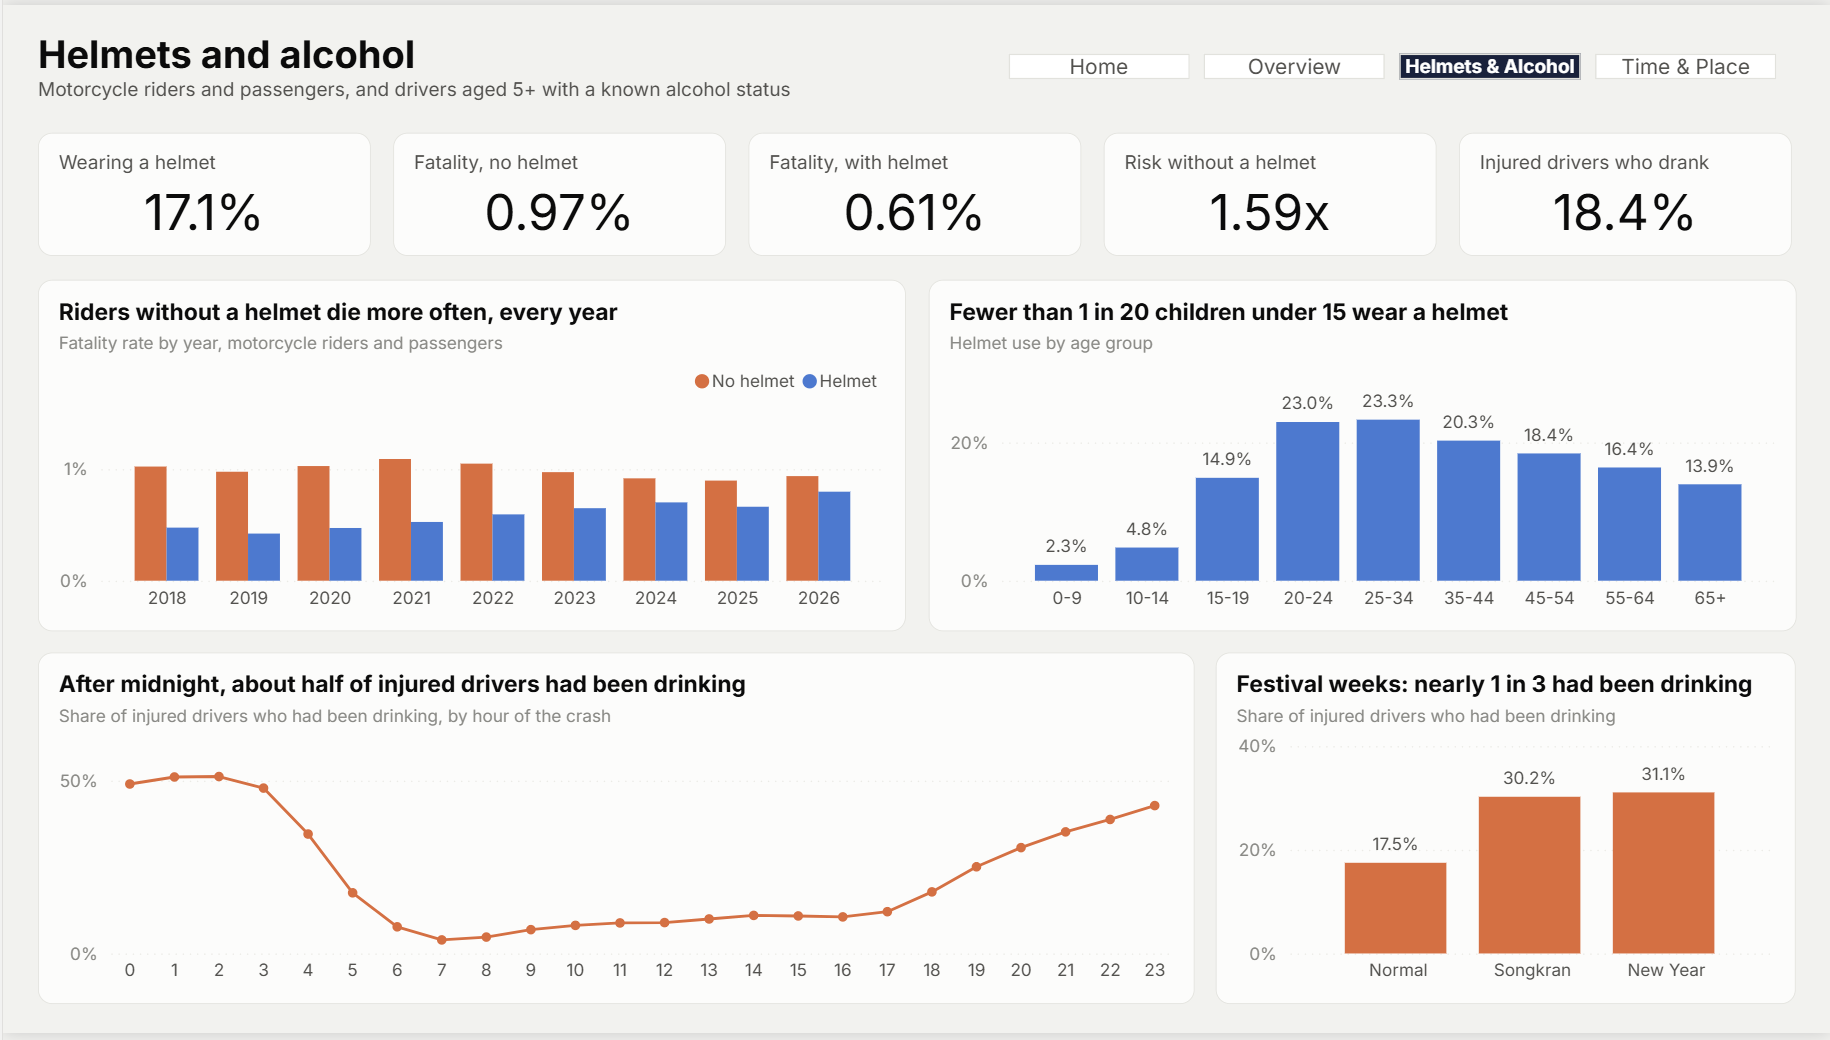
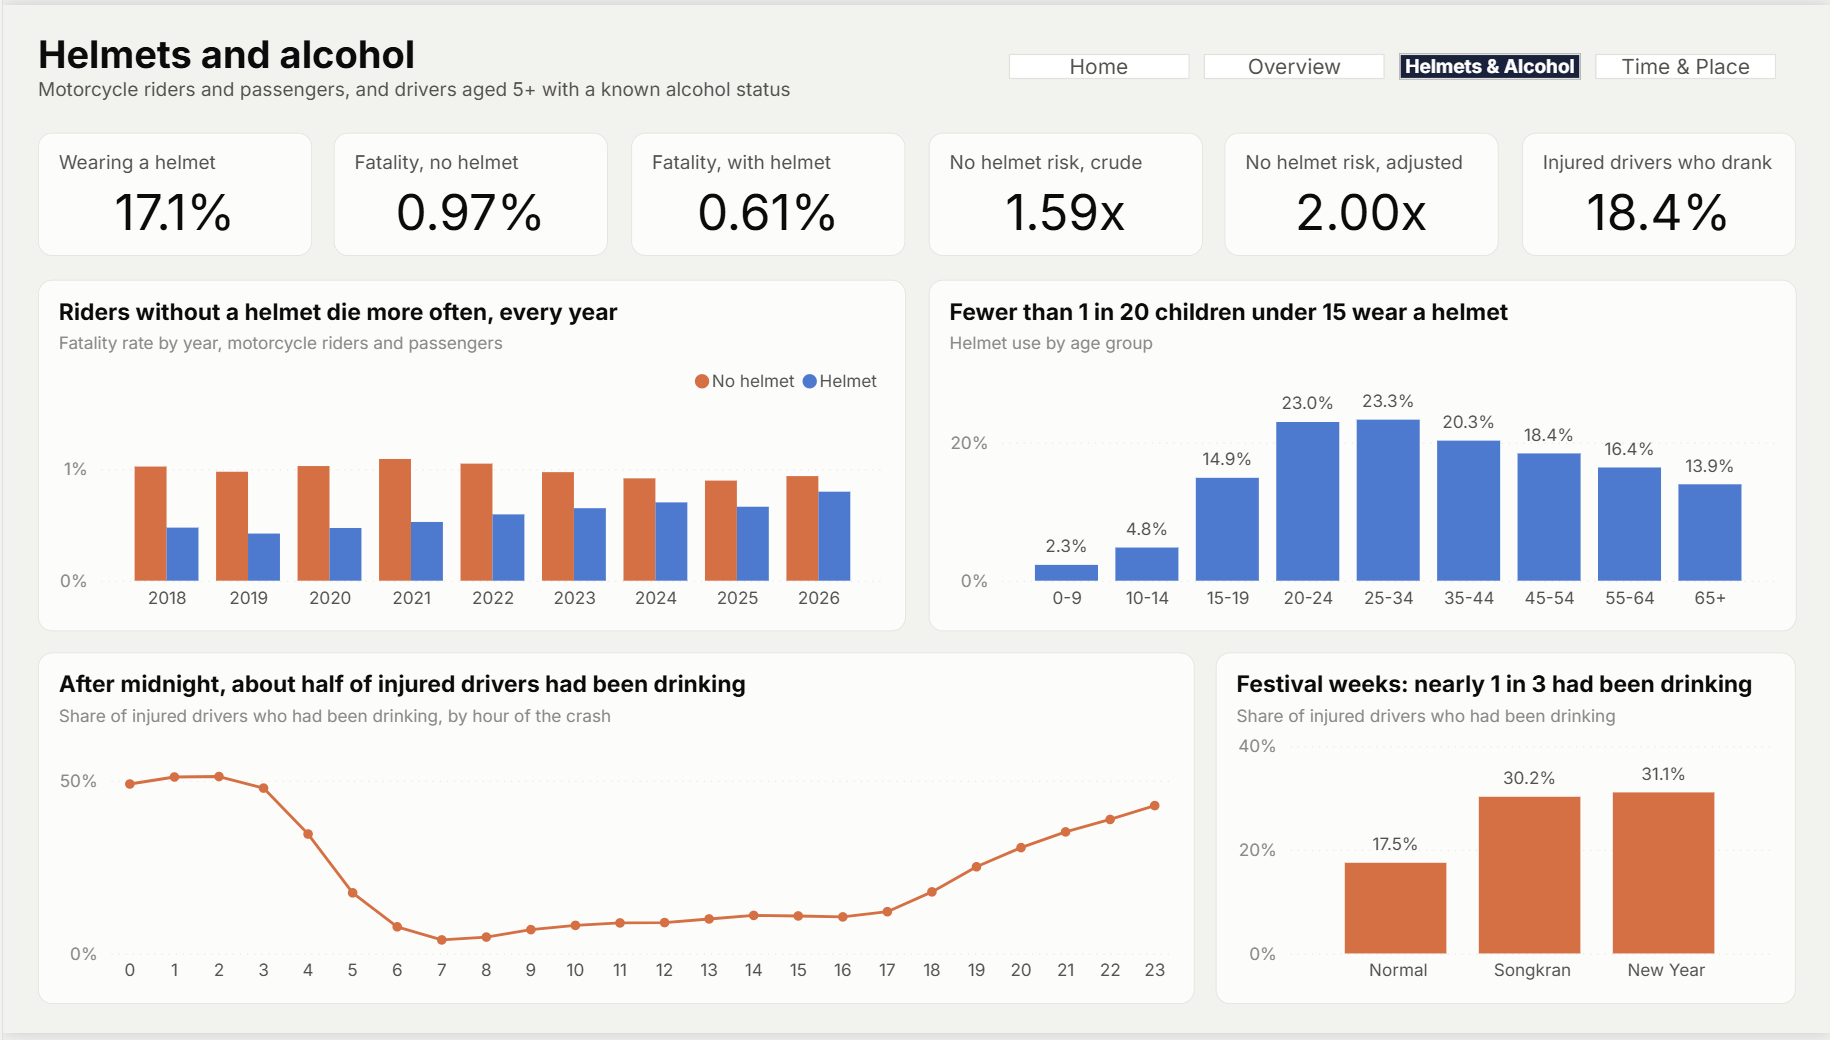
Show both helmet risk ratios on the dashboard images

Changed region(s): [[0.3738, 0.1538, 0.9656, 0.2462], [0.1869, 0.1538, 0.3426, 0.2462], [0.0623, 0.1846, 0.1557, 0.2462]]

diff --git a/index.html b/index.html
@@ -401,7 +401,7 @@ footer p { margin: 0 0 6px; }
         <li><div><b>ทำความสะอาดด้วย Python</b><span>ตัดแถวซ้ำ 7,504 แถว แปลงวันที่ที่มีถึง 3 รูปแบบ และแปลงรหัสเป็นหมวดหมู่</span></div></li>
         <li><div><b>ทำตามข้อควรระวังของกรมควบคุมโรค</b><span>ตัดผู้ป่วยที่รับส่งต่อจากโรงพยาบาลอื่น 468,283 แถว เหลือ 3,512,489 ราย การดื่มสุราไม่นับผู้ขับขี่อายุต่ำกว่า 5 ปี</span></div></li>
         <li><div><b>วิเคราะห์และปรับปัจจัยกวน</b><span>อัตราส่วนความเสี่ยงแบบ Mantel-Haenszel แยกตามอายุ เพศ การดื่ม ประเภทผู้ใช้ถนน และปี</span></div></li>
-        <li><div><b>แดชบอร์ด Power BI 4 หน้า</b><span>โมเดลแบบ star schema 6 ตาราง (fact 1 มิติ 5) และ 22 measures เขียนด้วย DAX ตรวจแล้วตรงกับผลจาก Python</span></div></li>
+        <li><div><b>แดชบอร์ด Power BI 4 หน้า</b><span>โมเดลแบบ star schema 6 ตาราง (fact 1 มิติ 5) และ 23 measures เขียนด้วย DAX ตรวจแล้วตรงกับผลจาก Python</span></div></li>
       </ol>
     </div>
     <div>
@@ -447,11 +447,11 @@ footer p { margin: 0 0 6px; }
       <p>ทุกไฟล์อยู่ใน Google Drive ของกลุ่ม เปิดดูได้ด้วยลิงก์ ข้อมูลทั้งหมดเป็นข้อมูลจริง ไม่มีข้อมูลสมมติ</p>
     </div>
     <div class="files" data-reveal>
-      <a class="file" href="https://drive.google.com/file/d/19oHNGAH2H6EDiT2emwXn_mHFeIlf0C1m/view" target="_blank" rel="noopener"><svg class="ficon" viewBox="0 0 44 52" aria-hidden="true"><path d="M7 2h21l13 13v31a4 4 0 0 1-4 4H7a4 4 0 0 1-4-4V6a4 4 0 0 1 4-4z" fill="#D62828"/><path d="M28 2l13 13h-9a4 4 0 0 1-4-4z" fill="#fff" fill-opacity=".38"/><path d="M10 22h16M10 27.5h21" stroke="#fff" stroke-opacity=".5" stroke-width="2" stroke-linecap="round"/><text x="22" y="42.5" text-anchor="middle" letter-spacing=".3" style="fill:#fff;font-family:Prompt,sans-serif;font-weight:700;font-size:9px">PDF</text></svg><div><b>รายงานฉบับสมบูรณ์</b><span>รายงานภาษาไทย 21 หน้า · 933 KB</span></div></a>
+      <a class="file" href="https://drive.google.com/file/d/19oHNGAH2H6EDiT2emwXn_mHFeIlf0C1m/view" target="_blank" rel="noopener"><svg class="ficon" viewBox="0 0 44 52" aria-hidden="true"><path d="M7 2h21l13 13v31a4 4 0 0 1-4 4H7a4 4 0 0 1-4-4V6a4 4 0 0 1 4-4z" fill="#D62828"/><path d="M28 2l13 13h-9a4 4 0 0 1-4-4z" fill="#fff" fill-opacity=".38"/><path d="M10 22h16M10 27.5h21" stroke="#fff" stroke-opacity=".5" stroke-width="2" stroke-linecap="round"/><text x="22" y="42.5" text-anchor="middle" letter-spacing=".3" style="fill:#fff;font-family:Prompt,sans-serif;font-weight:700;font-size:9px">PDF</text></svg><div><b>รายงานฉบับสมบูรณ์</b><span>รายงานภาษาไทย 21 หน้า · 937 KB</span></div></a>
       <a class="file" href="https://drive.google.com/file/d/1gc6JMN0GC8T3g28ZxQszPJjiUYmCwvzQ/view" target="_blank" rel="noopener"><svg class="ficon" viewBox="0 0 44 52" aria-hidden="true"><path d="M7 2h21l13 13v31a4 4 0 0 1-4 4H7a4 4 0 0 1-4-4V6a4 4 0 0 1 4-4z" fill="#2563EB"/><path d="M28 2l13 13h-9a4 4 0 0 1-4-4z" fill="#fff" fill-opacity=".38"/><path d="M10 22h16M10 27.5h21" stroke="#fff" stroke-opacity=".5" stroke-width="2" stroke-linecap="round"/><text x="22" y="42.5" text-anchor="middle" letter-spacing=".3" style="fill:#fff;font-family:Prompt,sans-serif;font-weight:700;font-size:9px">DOCX</text></svg><div><b>รายงาน (Word)</b><span>ไฟล์ต้นฉบับของรายงาน · 5.2 MB</span></div></a>
-      <a class="file" href="https://drive.google.com/file/d/1XSQeDZG-1NAw30LH3iASC9QJM1hMRyCf/view" target="_blank" rel="noopener"><svg class="ficon" viewBox="0 0 44 52" aria-hidden="true"><path d="M7 2h21l13 13v31a4 4 0 0 1-4 4H7a4 4 0 0 1-4-4V6a4 4 0 0 1 4-4z" fill="#D62828"/><path d="M28 2l13 13h-9a4 4 0 0 1-4-4z" fill="#fff" fill-opacity=".38"/><path d="M10 22h16M10 27.5h21" stroke="#fff" stroke-opacity=".5" stroke-width="2" stroke-linecap="round"/><text x="22" y="42.5" text-anchor="middle" letter-spacing=".3" style="fill:#fff;font-family:Prompt,sans-serif;font-weight:700;font-size:9px">PDF</text></svg><div><b>สไลด์นำเสนอ</b><span>10 หน้า สำหรับนำเสนอ 5 นาที · 382 KB</span></div></a>
-      <a class="file" href="https://drive.google.com/file/d/1WL5XZfdo7fImedWg32qKU9tur33CET6w/view" target="_blank" rel="noopener"><svg class="ficon" viewBox="0 0 44 52" aria-hidden="true"><path d="M7 2h21l13 13v31a4 4 0 0 1-4 4H7a4 4 0 0 1-4-4V6a4 4 0 0 1 4-4z" fill="#EA580C"/><path d="M28 2l13 13h-9a4 4 0 0 1-4-4z" fill="#fff" fill-opacity=".38"/><path d="M10 22h16M10 27.5h21" stroke="#fff" stroke-opacity=".5" stroke-width="2" stroke-linecap="round"/><text x="22" y="42.5" text-anchor="middle" letter-spacing=".3" style="fill:#fff;font-family:Prompt,sans-serif;font-weight:700;font-size:9px">PPTX</text></svg><div><b>สไลด์ (PowerPoint)</b><span>มีบทพูดใน speaker notes · 777 KB</span></div></a>
-      <a class="file" href="https://drive.google.com/file/d/1Ec17lllwx8ImKfCl79sZfcaCzql_KxYE/view" target="_blank" rel="noopener"><svg class="ficon" viewBox="0 0 44 52" aria-hidden="true"><path d="M7 2h21l13 13v31a4 4 0 0 1-4 4H7a4 4 0 0 1-4-4V6a4 4 0 0 1 4-4z" fill="#D97706"/><path d="M28 2l13 13h-9a4 4 0 0 1-4-4z" fill="#fff" fill-opacity=".38"/><path d="M10 22h16M10 27.5h21" stroke="#fff" stroke-opacity=".5" stroke-width="2" stroke-linecap="round"/><text x="22" y="42.5" text-anchor="middle" letter-spacing=".3" style="fill:#fff;font-family:Prompt,sans-serif;font-weight:700;font-size:9px">PBIX</text></svg><div><b>แดชบอร์ด Power BI</b><span>4 หน้า star schema 6 ตาราง 22 measures เปิดด้วย Power BI Desktop · 14.4 MB</span></div></a>
+      <a class="file" href="https://drive.google.com/file/d/1XSQeDZG-1NAw30LH3iASC9QJM1hMRyCf/view" target="_blank" rel="noopener"><svg class="ficon" viewBox="0 0 44 52" aria-hidden="true"><path d="M7 2h21l13 13v31a4 4 0 0 1-4 4H7a4 4 0 0 1-4-4V6a4 4 0 0 1 4-4z" fill="#D62828"/><path d="M28 2l13 13h-9a4 4 0 0 1-4-4z" fill="#fff" fill-opacity=".38"/><path d="M10 22h16M10 27.5h21" stroke="#fff" stroke-opacity=".5" stroke-width="2" stroke-linecap="round"/><text x="22" y="42.5" text-anchor="middle" letter-spacing=".3" style="fill:#fff;font-family:Prompt,sans-serif;font-weight:700;font-size:9px">PDF</text></svg><div><b>สไลด์นำเสนอ</b><span>10 หน้า สำหรับนำเสนอ 5 นาที · 384 KB</span></div></a>
+      <a class="file" href="https://drive.google.com/file/d/1WL5XZfdo7fImedWg32qKU9tur33CET6w/view" target="_blank" rel="noopener"><svg class="ficon" viewBox="0 0 44 52" aria-hidden="true"><path d="M7 2h21l13 13v31a4 4 0 0 1-4 4H7a4 4 0 0 1-4-4V6a4 4 0 0 1 4-4z" fill="#EA580C"/><path d="M28 2l13 13h-9a4 4 0 0 1-4-4z" fill="#fff" fill-opacity=".38"/><path d="M10 22h16M10 27.5h21" stroke="#fff" stroke-opacity=".5" stroke-width="2" stroke-linecap="round"/><text x="22" y="42.5" text-anchor="middle" letter-spacing=".3" style="fill:#fff;font-family:Prompt,sans-serif;font-weight:700;font-size:9px">PPTX</text></svg><div><b>สไลด์ (PowerPoint)</b><span>มีบทพูดใน speaker notes · 781 KB</span></div></a>
+      <a class="file" href="https://drive.google.com/file/d/1Ec17lllwx8ImKfCl79sZfcaCzql_KxYE/view" target="_blank" rel="noopener"><svg class="ficon" viewBox="0 0 44 52" aria-hidden="true"><path d="M7 2h21l13 13v31a4 4 0 0 1-4 4H7a4 4 0 0 1-4-4V6a4 4 0 0 1 4-4z" fill="#D97706"/><path d="M28 2l13 13h-9a4 4 0 0 1-4-4z" fill="#fff" fill-opacity=".38"/><path d="M10 22h16M10 27.5h21" stroke="#fff" stroke-opacity=".5" stroke-width="2" stroke-linecap="round"/><text x="22" y="42.5" text-anchor="middle" letter-spacing=".3" style="fill:#fff;font-family:Prompt,sans-serif;font-weight:700;font-size:9px">PBIX</text></svg><div><b>แดชบอร์ด Power BI</b><span>4 หน้า star schema 6 ตาราง 23 measures เปิดด้วย Power BI Desktop · 14.4 MB</span></div></a>
       <a class="file" href="https://drive.google.com/file/d/1KhTUPn5IaQPWQceYpS1jo4MAdu6xwX0u/view" target="_blank" rel="noopener"><svg class="ficon" viewBox="0 0 44 52" aria-hidden="true"><path d="M7 2h21l13 13v31a4 4 0 0 1-4 4H7a4 4 0 0 1-4-4V6a4 4 0 0 1 4-4z" fill="#475569"/><path d="M28 2l13 13h-9a4 4 0 0 1-4-4z" fill="#fff" fill-opacity=".38"/><path d="M10 22h16M10 27.5h21" stroke="#fff" stroke-opacity=".5" stroke-width="2" stroke-linecap="round"/><text x="22" y="42.5" text-anchor="middle" letter-spacing=".3" style="fill:#fff;font-family:Prompt,sans-serif;font-weight:700;font-size:9px">ZIP</text></svg><div><b>โค้ดและผลวิเคราะห์</b><span>สคริปต์ Python ทั้งหมด โปรเจกต์ Power BI และตารางผล</span></div></a>
       <a class="file" href="https://drive.google.com/file/d/1oWaNaTprsJaynalCuz6DEhD9kEqU62uH/view" target="_blank" rel="noopener"><svg class="ficon" viewBox="0 0 44 52" aria-hidden="true"><path d="M7 2h21l13 13v31a4 4 0 0 1-4 4H7a4 4 0 0 1-4-4V6a4 4 0 0 1 4-4z" fill="#059669"/><path d="M28 2l13 13h-9a4 4 0 0 1-4-4z" fill="#fff" fill-opacity=".38"/><path d="M10 22h16M10 27.5h21" stroke="#fff" stroke-opacity=".5" stroke-width="2" stroke-linecap="round"/><text x="22" y="42.5" text-anchor="middle" letter-spacing=".3" style="fill:#fff;font-family:Prompt,sans-serif;font-weight:700;font-size:9px">DATA</text></svg><div><b>ข้อมูลที่ทำความสะอาดแล้ว</b><span>ไฟล์ Parquet ทุกแถวหลังตัดแถวซ้ำ</span></div></a>
       <a class="file" href="https://drive.google.com/drive/folders/1hgz_0l1_CdgdecM3_f85zfrBWEGGGWej" target="_blank" rel="noopener"><svg class="ficon" viewBox="0 0 44 52" aria-hidden="true"><rect x="0" y="4" width="44" height="44" rx="12" fill="#1F2937"/><g transform="translate(4.5 8.5) scale(1.25)" fill="none" stroke="#fff" stroke-width="1.7" stroke-linecap="round" stroke-linejoin="round"><path d="M4 9.5A2.5 2.5 0 0 1 6.5 7H11l2.2 2.6h8.3A2.5 2.5 0 0 1 24 12.1v7.4a2.5 2.5 0 0 1-2.5 2.5h-15A2.5 2.5 0 0 1 4 19.5z"/></g></svg><div><b>โฟลเดอร์ Google Drive</b><span>ไฟล์ทั้งหมดของโครงงานในที่เดียว</span></div></a>
